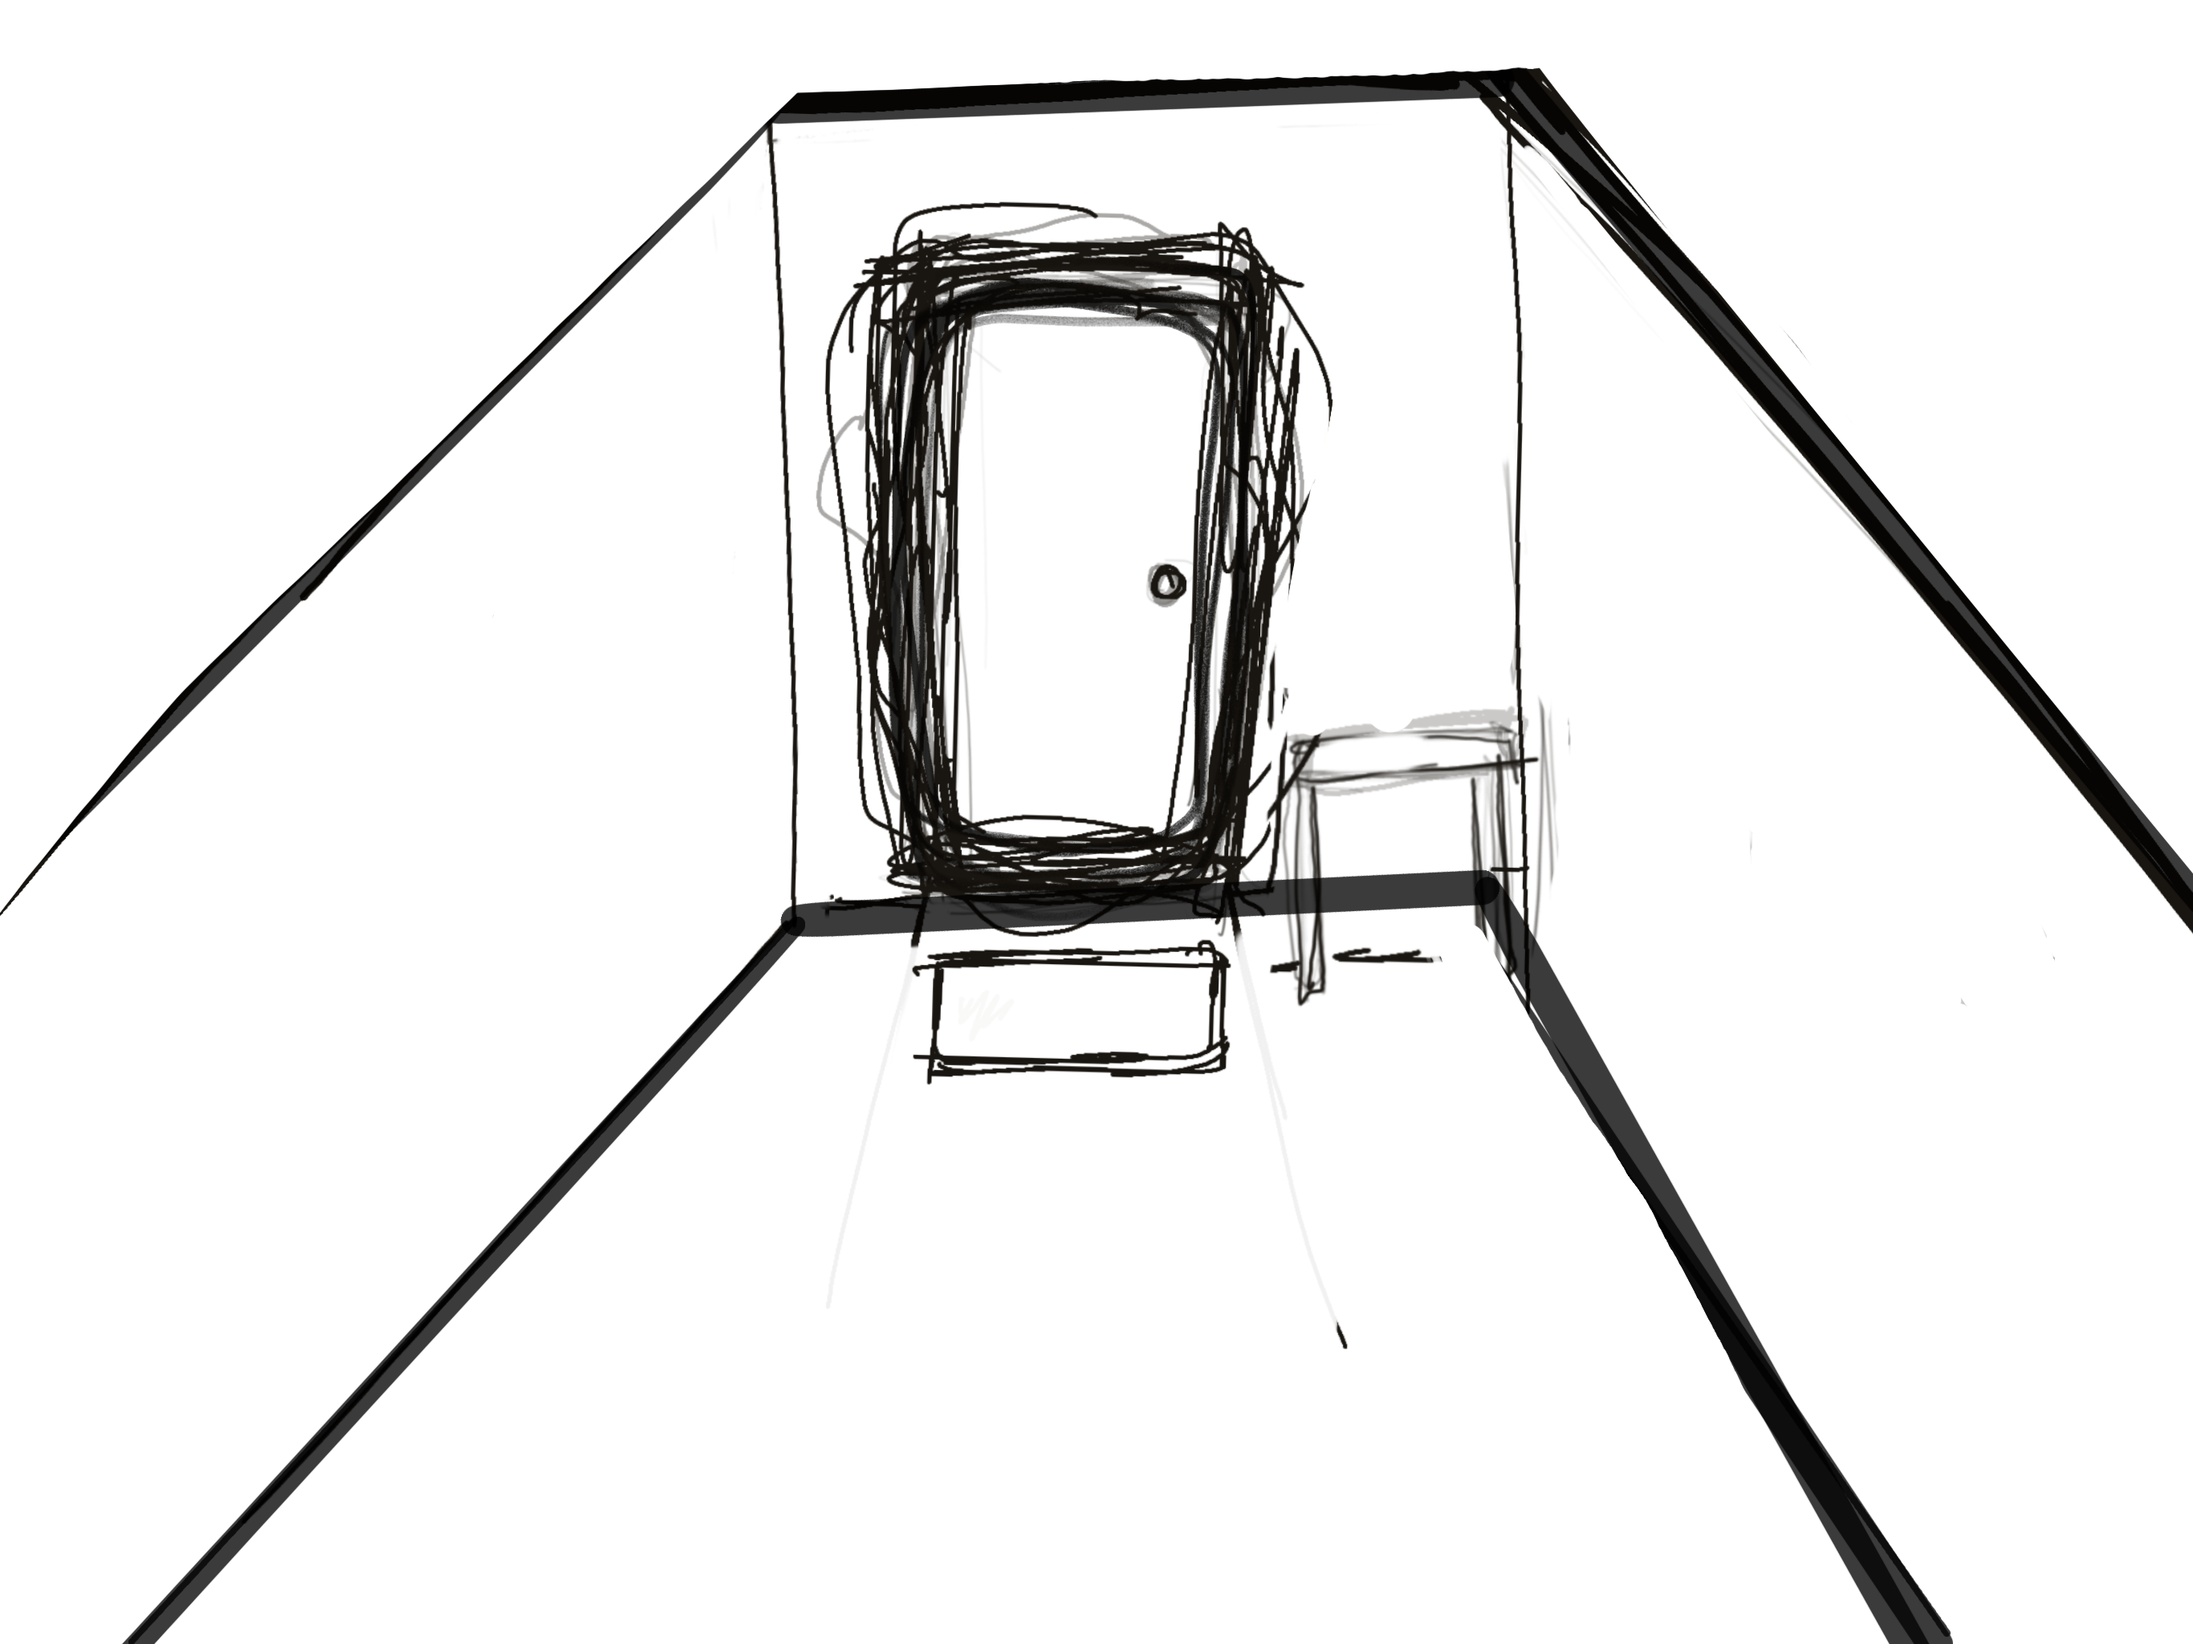
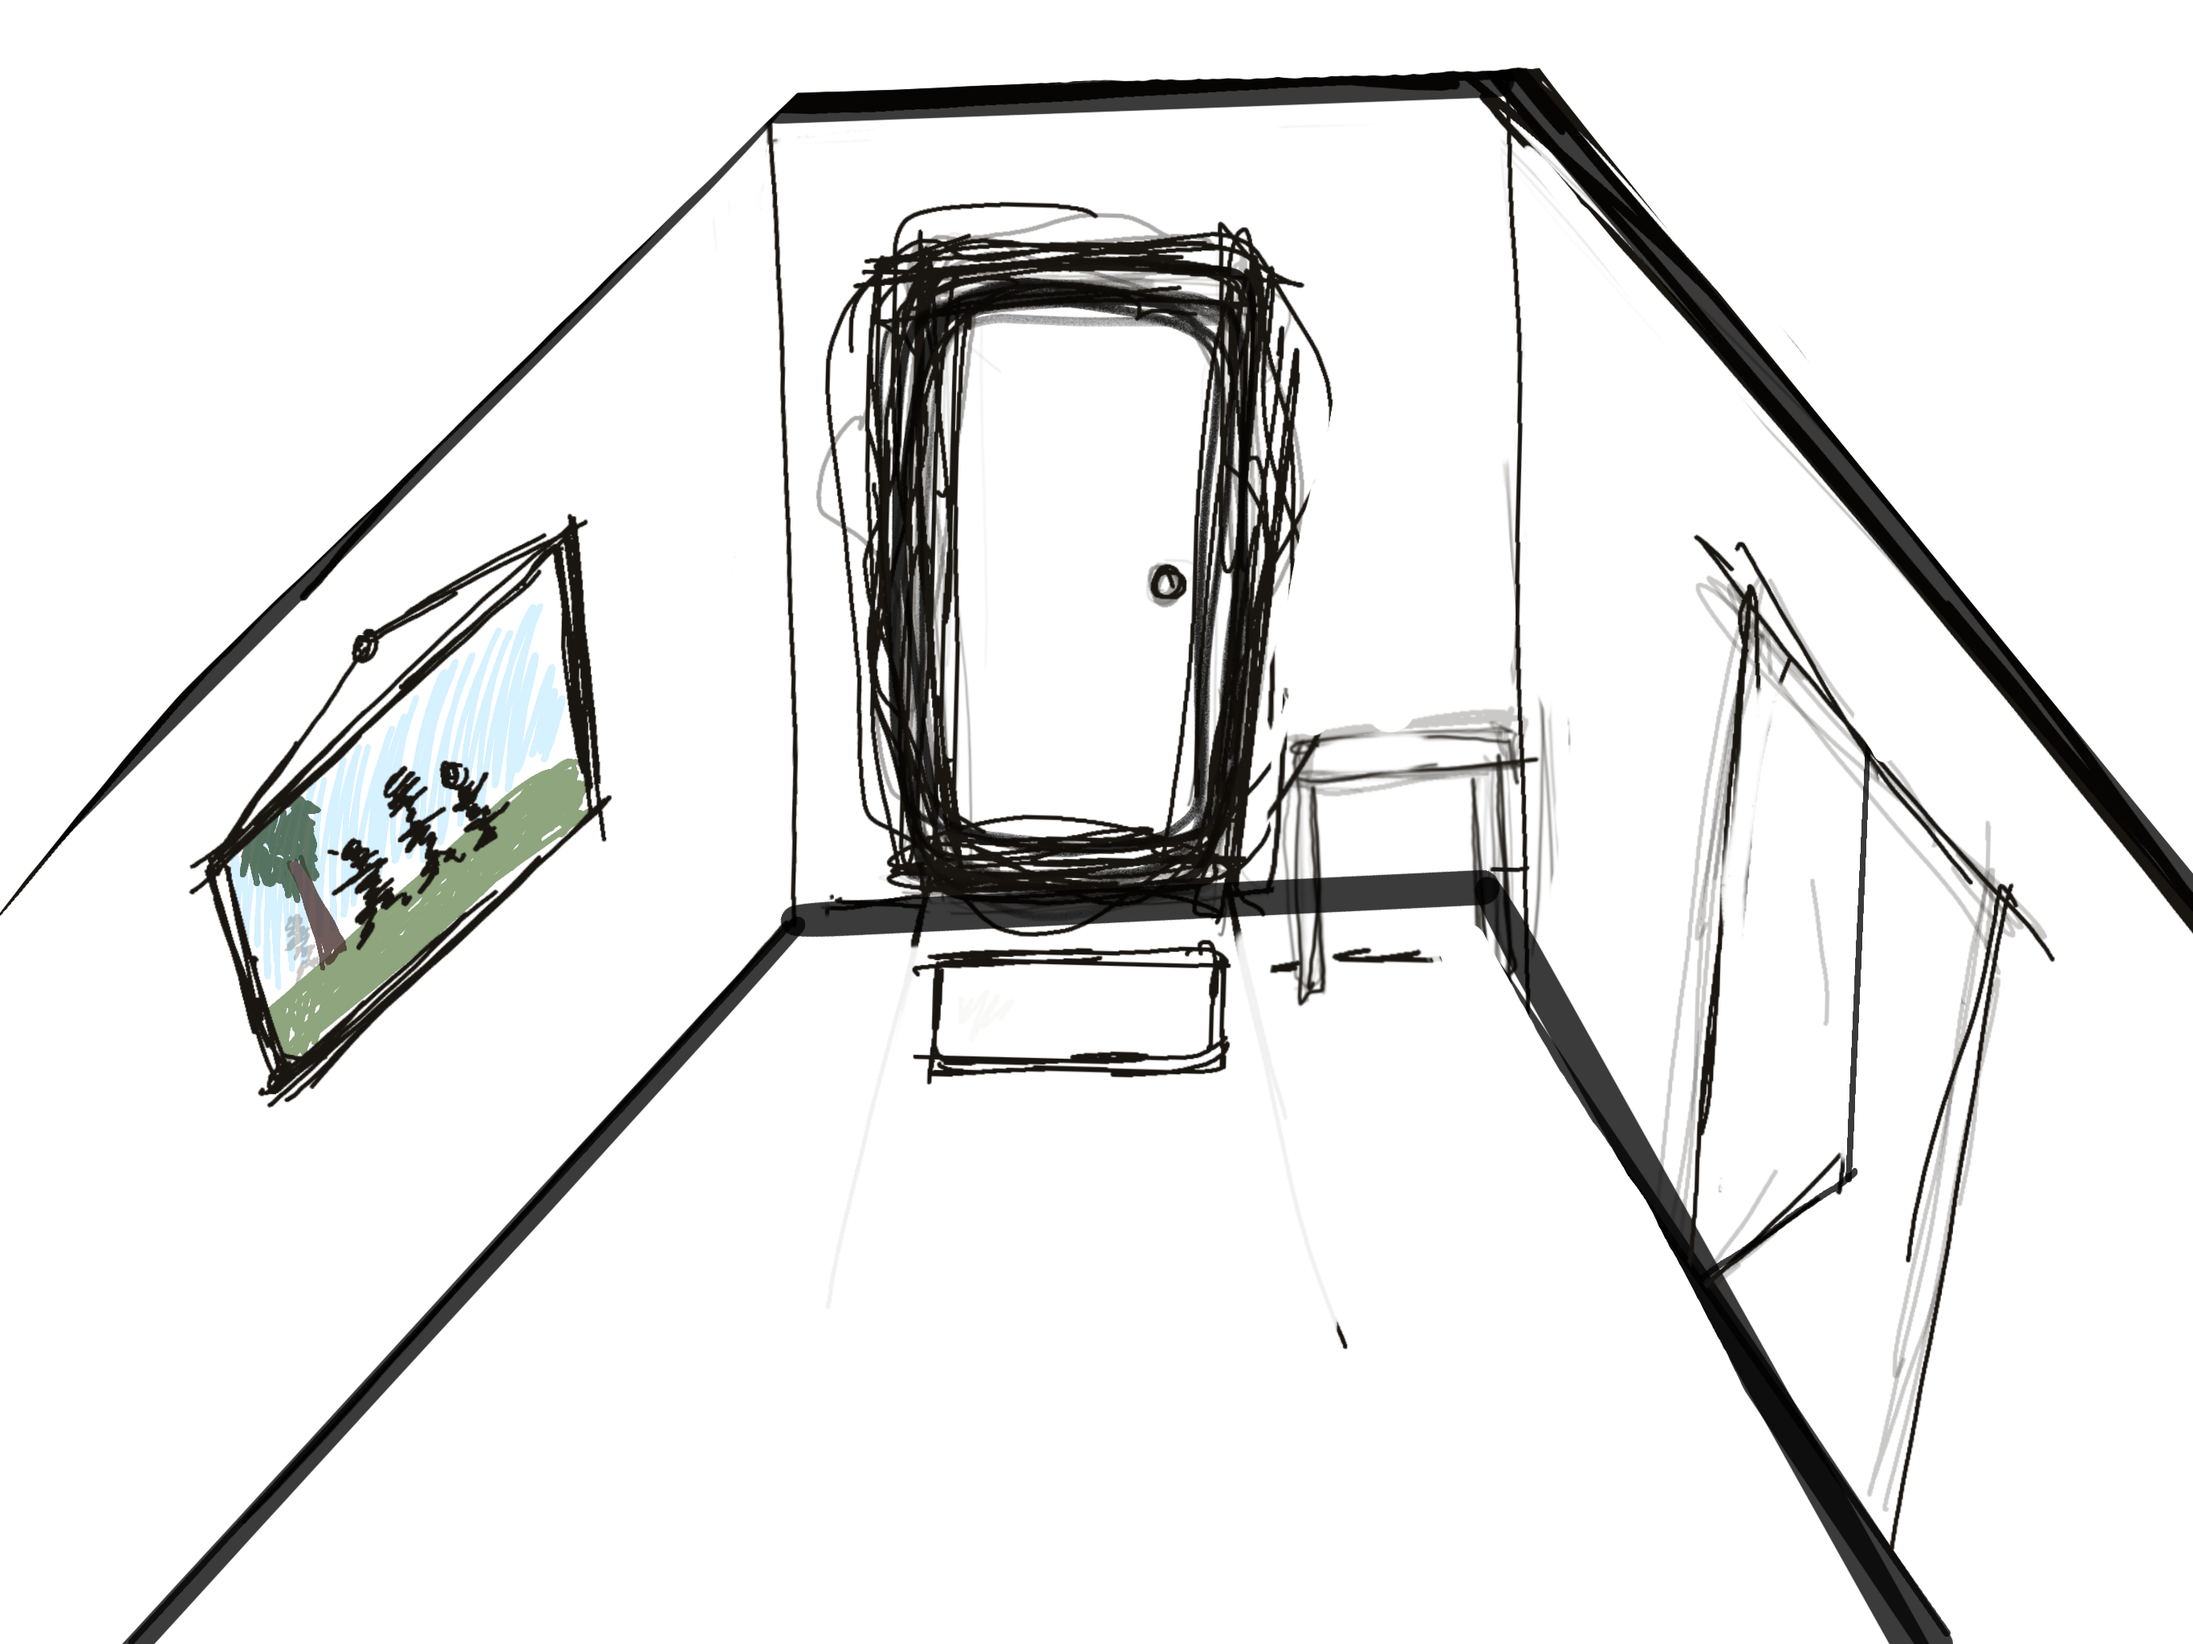
changed idk some stuff i cant remember

Changed region(s): [[0.7467, 0.3125, 0.9334, 0.9375], [0.0933, 0.3125, 0.28, 0.6875]]

diff --git a/game.js b/game.js
@@ -12,19 +12,53 @@ class DoorWay extends AdventureScene {
     }
 
     onEnter() {
-        let background = this.add.sprite(700,500, "door way");
-        background.setScale(0.5);
+        let background = this.add.sprite(700,520, "door way");
+        background.setScale(0.55);
 
-        let bathroomDoor = this.add.text(680, 500, " ")
-            .setScale(5)
+        let bathroomDoor = this.add.text(1000, 600, " AD")
+            .setDepth(1)
+            .setScale(10)
             .setInteractive()
             .on('pointerover', () => {
+                this.showMessage("Enter the bathroom.")
                 this.gotoScene("sink")
-            })
+            });
 
-        let mainDoor = this.add.text(307.5, 200, " ")
+        let coat = this.add.image(720, 480, "coat")
+            .setDepth(1)
+            .setScale(0.5)
+            .setInteractive()
+            
+            .on('pointerover', () => this.showMessage("A coat to shield myself from the world. Good coat"))
+            
+            .on('pointerdown', () => {
+                this.showMessage("Coat, ON. Nothing can stop me now.")
+                this.gainItem("coat")
+                this.spriteRemove(coat)
+            })
+        
+        let keys = this.add.image(950, 500, "keys")
+            .setDepth(1)
+            .setScale(0.15)
+            .setInteractive()
+            .on('pointerover', () => this.showMessage("Keys for the car and the apartment"))
+            .on('pointerdown', () => {
+                this.showMessage("I dread the day of forgetting these")
+                this.gainItem("keys")
+                this.spriteRemove(keys)
+            });
+    
+            let painting = this.add.text(180, 400, " ")
+            .setDepth(1)
+            .setInteractive()
+            .setScale(10)
+            .on('pointerover', () => this.showMessage("Taken on my 16th birthday. I'm 20 now. The guy in the back is kinda weird."))  
+
+            let mainDoor = this.add.text(700, 480, " ")
+            .setDepth(1)
             .setScale(5)
             .setInteractive()
+
             .on('pointerover', () => {
                 if (this.hasItem("keys")) {
                     this.showMessage("I have my keys. Should be ready to leave now.")
@@ -32,6 +66,7 @@ class DoorWay extends AdventureScene {
                     this.showMessage("I think I'm forgetting something...")
                 }
             })
+
             .on('pointerdown', () => {
                 if (this.hasItem("keys")) {
                     this.showMessage("Time to leave")
@@ -40,43 +75,6 @@ class DoorWay extends AdventureScene {
                     this.showMessage("I think I'm forgetting something...")
                 }
             });
-
-        let coat = this.add.image(720, 480, "coat")
-            .setDepth(1)
-            .setScale(0.5)
-            .setInteractive()
-            //.on('pointerover', () => this.emphasizeItem(coat))
-            .on('pointerover', () => this.showMessage("A coat to shield myself from the world. Good coat"))
-            //.on('pointerout', () => this.deEmphasizeItem(coat))
-            on('pointerdown', () => {
-                this.showMessage("Coat, ON. Nothing can stop me now.")
-                this.gainItem("coat")
-                this.spriteRemove(coat)
-            });
-        
-        let keys = this.add.image(720, 200, "keys")
-            .setDepth(2)
-            .setInteractive()
-            .on('pointerover', () => this.showMessage("Keys for the car and the apartment"))
-            on('pointerdown', () => {
-                this.showMessage("I dread the day of forgetting these")
-                this.gainItem("keys")
-                this.spriteRemove(keys)
-            });
-        
-            let painting = this.add.image(200, 300, "painting")
-            .setDepth()
-            .setScale(1)
-            .setInteractive()
-            //.on('pointerover', () => this.emphasizeItem(coat))
-            .on('pointerover', () => this.showMessage("A coat to shield myself from the world. Good coat"))
-            //.on('pointerout', () => this.deEmphasizeItem(coat))
-            on('pointerdown', () => {
-                this.showMessage("Coat, ON. Nothing can stop me now.")
-                this.gainItem("coat")
-                this.spriteRemove(coat)
-            });
-          
     }
 }
 
@@ -223,7 +221,7 @@ const game = new Phaser.Game({
         height: 1080
 
     },
-    //scene: [Intro, DoorWay, Sink, WalkWay, Stairs, BadEnd, Outro1, Outro2],
-    scene: [DoorWay],
+    scene: [Intro, DoorWay, Sink, WalkWay, Stairs, BadEnd, Outro1, Outro2],
+    //scene: [DoorWay],
     title: "Saturday",
 });
